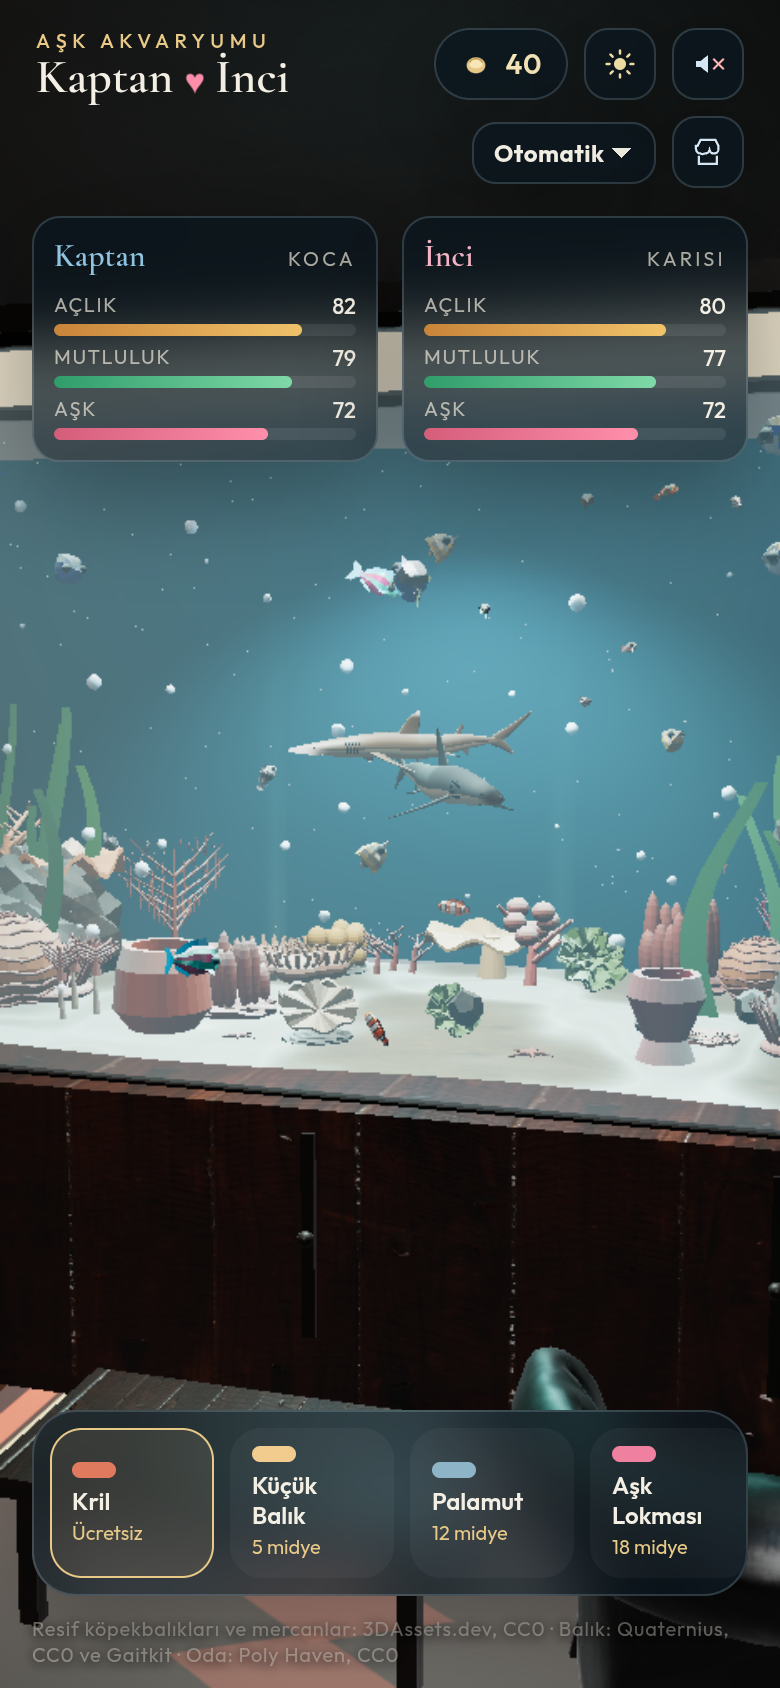
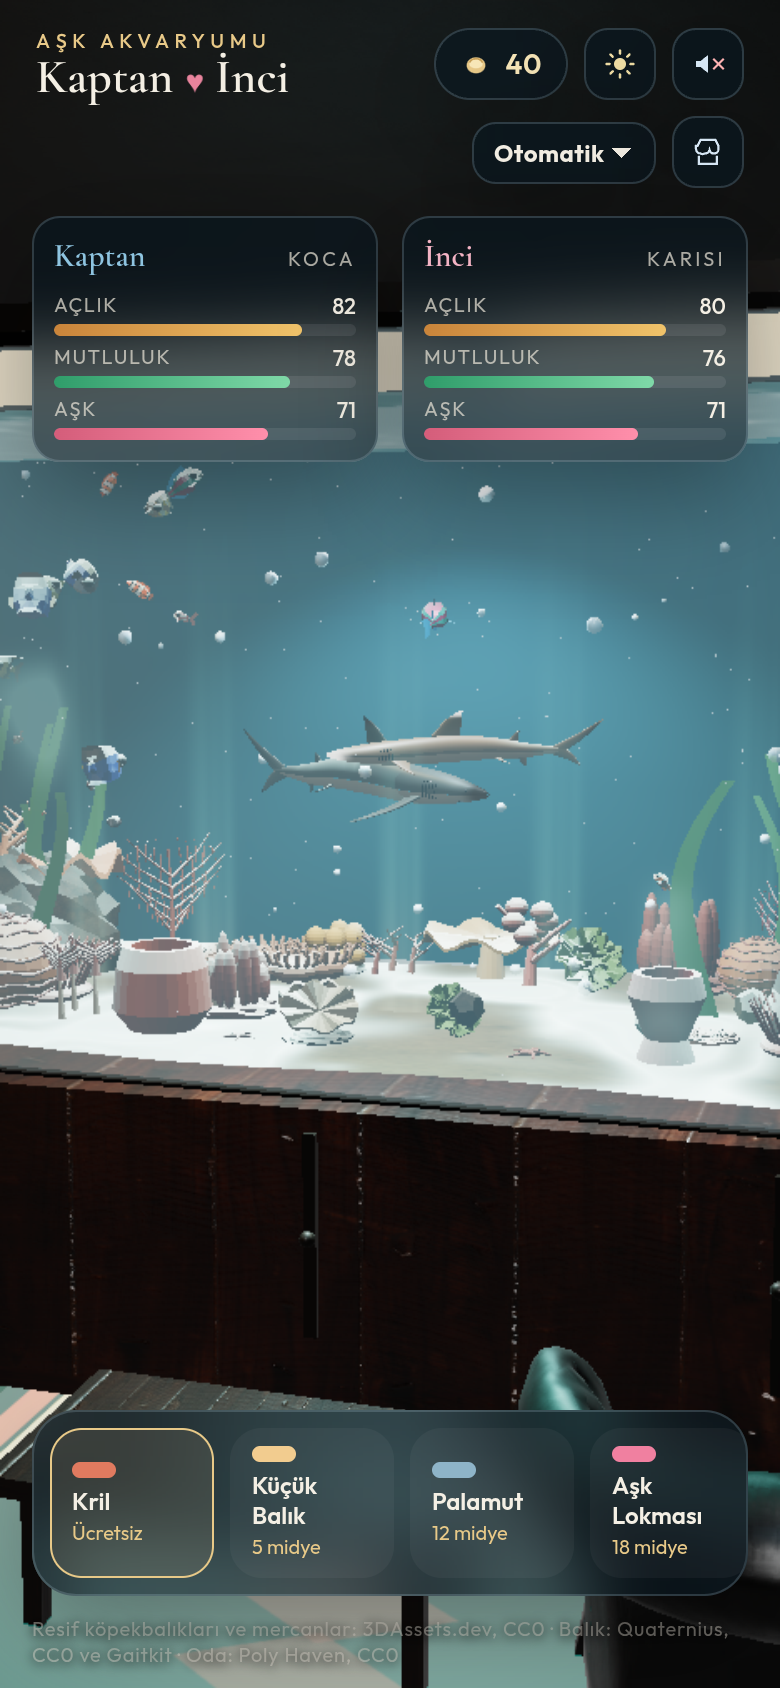
Su ve ışık: caustic, Orta’da tanrı ışınları, yüzey ışıltısı, yere yayılan ışıma
Kustik kontrastı ve emilim güçlendirildi. God ray düzlemleri Orta yazılım
yolunda da görünür. Önden bakışta su ışıltısı ve dolap önünde teal yer
ışıklaması eklendi. Orta/llvmpipe görüntüleri temiz.

diff --git a/js/world.js b/js/world.js
@@ -50,7 +50,7 @@ const PRESETS = {
   },
   medium: {
     bloom: false, shadows: false, shadowSize: 512, bubbles: 50, fish: 22, kelp: 8,
-    snow: 220, godrays: 4, transmission: false, gtao: false, dof: false, smaa: false,
+    snow: 220, godrays: 7, transmission: false, gtao: false, dof: false, smaa: false,
     fxaa: false, post: true, tex1k: true, simpleWater: true, simpleGlass: true,
     hdri: false, hdriPath: "./hdri/fireplace_1k.hdr", grade: false, exposure: 1.18, tone: "aces",
   },
@@ -235,7 +235,7 @@ export function applyUnderwater(material, uniforms, hooks = {}) {
     shader.uniforms.uFogDensity = uniforms.uFogDensity;
     if (uniforms.uCausticColor) shader.uniforms.uCausticColor = uniforms.uCausticColor;
     if (hooks.uniforms) Object.assign(shader.uniforms, hooks.uniforms);
-    if (!shader.uniforms.uCauGain) shader.uniforms.uCauGain = hooks.uniforms?.uCauGain || { value: 1.0 };
+    if (!shader.uniforms.uCauGain) shader.uniforms.uCauGain = hooks.uniforms?.uCauGain || { value: 1.45 };
     shader.vertexShader = shader.vertexShader
       .replace(
         "#include <common>",
@@ -265,7 +265,7 @@ export function applyUnderwater(material, uniforms, hooks = {}) {
         float c = caustic(vWorldPos.xz);
         float up = clamp(dot(normalize(normal), vec3(0.0, 1.0, 0.0)), 0.0, 1.0);
         vec3 cauCol = vec3(0.55, 0.95, 0.92);
-        outgoingLight += cauCol * (0.28 + 1.15 * c) * up * mix(1.0, 0.28, uNight) * (1.0 - absorb * 0.35) * uCauGain;
+        outgoingLight += cauCol * (0.12 + 1.85 * c) * up * mix(1.0, 0.28, uNight) * (1.0 - absorb * 0.32) * uCauGain;
         ${hooks.fragmentExtra || ""}
         }
         #include <opaque_fragment>`
@@ -354,8 +354,8 @@ export async function createWorld(canvas, quality, manager) {
   const uniforms = {
     uTime: { value: 0 },
     uNight: { value: 0 },
-    uWaterColor: { value: new THREE.Color(0x0a4e60) },
-    uFogDensity: { value: 0.14 },
+    uWaterColor: { value: new THREE.Color(0x0a4a5c) },
+    uFogDensity: { value: 0.16 },
     uCausticColor: { value: new THREE.Color(0x5ef0d8) },
     uWaterLevel: { value: TANK.water },
   };
@@ -426,6 +426,10 @@ export async function createWorld(canvas, quality, manager) {
 
   const waterSurface = quality.simpleWater ? makeSimpleWater() : makeWaterSurface();
   root.add(waterSurface);
+  const frontShimmer = makeFrontShimmer();
+  root.add(frontShimmer);
+  const floorGlow = makeFloorSpillGlow();
+  root.add(floorGlow);
 
   const glass = makeGlass(quality);
   root.add(glass);
@@ -487,7 +491,7 @@ export async function createWorld(canvas, quality, manager) {
 
   return {
     scene, camera, renderer, composer, controls, labels,
-    root, interior, decorations, waterSurface, rays, lights,
+    root, interior, decorations, waterSurface, frontShimmer, rays, lights,
     uniforms, quality, room,
     lastInteract: () => lastInteract,
   };
@@ -986,16 +990,57 @@ function makeSand(tex, quality) {
 
 
 function makeSimpleWater() {
-  const mat = new THREE.MeshStandardMaterial({
-    color: 0x1a6a78,
-    roughness: 0.15,
-    metalness: 0.05,
+  return makeShimmerSurface(true);
+}
+
+function makeShimmerSurface(simple) {
+  const mat = new THREE.ShaderMaterial({
     transparent: true,
-    opacity: 0.28,
-    envMapIntensity: 0.5,
     depthWrite: false,
+    side: THREE.DoubleSide,
+    uniforms: { uTime: { value: 0 }, uNight: { value: 0 } },
+    vertexShader: /* glsl */ `
+      varying vec2 vUv; varying vec3 vW; varying vec3 vView;
+      uniform float uTime;
+      void main() {
+        vUv = uv;
+        vec3 p = position;
+        p.z += sin(p.x * 3.2 + uTime * 1.05) * 0.007 + cos(p.y * 3.8 + uTime * 0.8) * 0.005;
+        vec4 wp = modelMatrix * vec4(p, 1.0);
+        vW = wp.xyz;
+        vec4 mv = modelViewMatrix * vec4(p, 1.0);
+        vView = mv.xyz;
+        gl_Position = projectionMatrix * mv;
+      }`,
+    fragmentShader: /* glsl */ `
+      varying vec2 vUv; varying vec3 vW; varying vec3 vView;
+      uniform float uTime, uNight;
+      float hash(vec2 p){ return fract(sin(dot(p, vec2(127.1,311.7))) * 43758.5453); }
+      float noise(vec2 p){
+        vec2 i=floor(p), f=fract(p); f=f*f*(3.0-2.0*f);
+        return mix(mix(hash(i),hash(i+vec2(1,0)),f.x), mix(hash(i+vec2(0,1)),hash(i+vec2(1,1)),f.x), f.y);
+      }
+      void main() {
+        vec3 N = normalize(vec3(
+          sin(vW.x * 6.0 + uTime * 1.2) * 0.15,
+          1.0,
+          cos(vW.z * 6.5 + uTime * 0.9) * 0.15
+        ));
+        vec3 V = normalize(-vView);
+        float fres = pow(1.0 - clamp(dot(N, vec3(0.0, 1.0, 0.0) /* view-ish */), 0.0, 1.0), 2.2);
+        float glance = pow(1.0 - abs(V.z), 1.6);
+        float spark = noise(vW.xz * 4.5 + vec2(uTime * 0.22, -uTime * 0.13));
+        spark *= noise(vW.xz * 8.0 + vec2(-uTime * 0.18, uTime * 0.1));
+        spark = pow(clamp(spark * 1.4, 0.0, 1.0), 3.0);
+        vec3 teal = vec3(0.18, 0.55, 0.58);
+        vec3 hi = vec3(0.75, 0.95, 0.92);
+        vec3 col = mix(teal, hi, spark * 0.7 + fres * 0.35 + glance * 0.25);
+        float a = mix(0.22, 0.12, uNight) + spark * 0.28 + fres * 0.2 + glance * 0.15;
+        gl_FragColor = vec4(col, clamp(a, 0.0, 0.7));
+      }`,
   });
-  const mesh = new THREE.Mesh(new THREE.PlaneGeometry(TANK.w - 0.08, TANK.d - 0.08), mat);
+  const segs = simple ? 12 : 48;
+  const mesh = new THREE.Mesh(new THREE.PlaneGeometry(TANK.w - 0.08, TANK.d - 0.08, segs, Math.max(6, (segs / 2) | 0)), mat);
   mesh.rotation.x = -Math.PI / 2;
   mesh.position.y = TANK.water - 0.01;
   mesh.renderOrder = 2;
@@ -1053,6 +1098,65 @@ function makeWaterSurface() {
   mesh.rotation.x = -Math.PI / 2;
   mesh.position.y = TANK.water - 0.01;
   mesh.renderOrder = 2;
+  return mesh;
+}
+
+
+function makeFrontShimmer() {
+  const mat = new THREE.ShaderMaterial({
+    transparent: true,
+    depthWrite: false,
+    blending: THREE.AdditiveBlending,
+    side: THREE.DoubleSide,
+    uniforms: { uTime: { value: 0 }, uNight: { value: 0 } },
+    vertexShader: /* glsl */ `
+      varying vec2 vUv; varying vec3 vW;
+      void main() {
+        vUv = uv;
+        vec4 wp = modelMatrix * vec4(position, 1.0);
+        vW = wp.xyz;
+        gl_Position = projectionMatrix * viewMatrix * wp;
+      }`,
+    fragmentShader: /* glsl */ `
+      varying vec2 vUv; varying vec3 vW;
+      uniform float uTime, uNight;
+      float hash(vec2 p){ return fract(sin(dot(p, vec2(127.1,311.7))) * 43758.5453); }
+      float noise(vec2 p){
+        vec2 i=floor(p), f=fract(p); f=f*f*(3.0-2.0*f);
+        return mix(mix(hash(i),hash(i+vec2(1,0)),f.x), mix(hash(i+vec2(0,1)),hash(i+vec2(1,1)),f.x), f.y);
+      }
+      void main() {
+        float c = noise(vec2(vW.x * 2.4, vW.y * 1.8) + vec2(uTime * 0.2, 0.0));
+        c *= noise(vec2(vW.x * 4.1 + uTime * -0.14, vW.y * 3.2));
+        float spark = pow(clamp(c * 1.5, 0.0, 1.0), 3.2);
+        float fade = smoothstep(0.0, 0.1, vUv.y) * smoothstep(1.0, 0.82, vUv.y) * 0.55 + 0.45;
+        float a = spark * mix(0.32, 0.12, uNight) * fade;
+        gl_FragColor = vec4(vec3(0.45, 0.95, 0.88) * a, a);
+      }`,
+  });
+  const mesh = new THREE.Mesh(
+    new THREE.PlaneGeometry(TANK.w - 0.12, TANK.water - TANK.sand - 0.04),
+    mat
+  );
+  mesh.position.set(0, (TANK.water + TANK.sand) / 2, TANK.d / 2 - 0.07);
+  mesh.renderOrder = 2;
+  mesh.userData.shimmer = true;
+  return mesh;
+}
+
+function makeFloorSpillGlow() {
+  const mat = new THREE.MeshBasicMaterial({
+    color: 0x4ee0d0,
+    transparent: true,
+    opacity: 0.2,
+    depthWrite: false,
+    blending: THREE.AdditiveBlending,
+    side: THREE.DoubleSide,
+  });
+  const mesh = new THREE.Mesh(new THREE.PlaneGeometry(3.6, 2.4), mat);
+  mesh.rotation.x = -Math.PI / 2;
+  mesh.position.set(0.15, ROOM.floorY + 0.012, 1.65);
+  mesh.renderOrder = 1;
   return mesh;
 }
 
@@ -1190,7 +1294,7 @@ function makeLights(root, quality) {
   rect.lookAt(0, 0.4, 0);
   if (!quality.software) root.add(rect);
 
-  const spill = new THREE.SpotLight(0x5ee0d0, 14, 10.0, Math.PI / 2.8, 0.62, 1.0);
+  const spill = new THREE.SpotLight(0x5ee0d0, 22, 11.0, Math.PI / 2.4, 0.7, 1.0);
   spill.position.set(0, 1.35, 0.55);
   spill.target.position.set(0.3, 0.15, 3.2);
   spill.castShadow = false;
@@ -1239,7 +1343,7 @@ function makeGodRays(n) {
         float bands = 0.55 + 0.45 * noise(vec2(vUv.x * 18.0, uTime * 0.15));
         float flicker = 0.75 + 0.25 * sin(uTime * 1.3 + vUv.x * 20.0);
         float fall = pow(1.0 - vUv.y, 1.15);
-        float a = shaft * bands * flicker * fall * mix(0.42, 0.18, uNight);
+        float a = shaft * bands * flicker * fall * mix(0.85, 0.32, uNight);
         vec3 teal = vec3(0.28, 0.92, 0.82);
         vec3 warm = vec3(1.0, 0.78, 0.42);
         vec3 col = mix(teal, warm, smoothstep(0.7, 1.0, 1.0 - vUv.y) * 0.55);
@@ -1248,10 +1352,10 @@ function makeGodRays(n) {
     `,
   });
   for (let i = 0; i < n; i++) {
-    const mesh = new THREE.Mesh(new THREE.PlaneGeometry(0.38, TANK.water - 0.05), mat);
-    const x = -1.7 + (i / Math.max(1, n - 1)) * 3.4;
-    mesh.position.set(x, TANK.water / 2, (i % 2 === 0 ? 0.18 : -0.22));
-    mesh.rotation.y = (i % 2 === 0 ? 0.15 : -0.12);
+    const mesh = new THREE.Mesh(new THREE.PlaneGeometry(0.62, TANK.water - 0.04), mat);
+    const x = -1.75 + (i / Math.max(1, n - 1)) * 3.5;
+    mesh.position.set(x, TANK.water / 2 + 0.02, (i % 2 === 0 ? 0.32 : 0.08));
+    mesh.rotation.y = (i % 2 === 0 ? 0.06 : -0.05);
     mesh.renderOrder = 1;
     group.add(mesh);
   }
@@ -1270,7 +1374,7 @@ export function setDayNight(world, nightT) {
   if (L.hood3) L.hood3.intensity = THREE.MathUtils.lerp(8, 4, nightT);
   L.fill.intensity = THREE.MathUtils.lerp(2.6, 1.2, nightT);
   if (L.rect) L.rect.intensity = THREE.MathUtils.lerp(q.software ? 0 : 5, 2, nightT);
-  if (L.spill) L.spill.intensity = THREE.MathUtils.lerp(14, 6, nightT);
+  if (L.spill) L.spill.intensity = THREE.MathUtils.lerp(22, 8, nightT);
   if (L.roomFill) L.roomFill.intensity = THREE.MathUtils.lerp(1.6, 0.7, nightT);
   world.scene.background.copy(
     new THREE.Color(0x0a0d10).lerp(new THREE.Color(0x05060a), nightT)
@@ -1281,6 +1385,9 @@ export function setDayNight(world, nightT) {
   world.renderer.toneMappingExposure = THREE.MathUtils.lerp(dayExp, dayExp * 0.82, nightT);
   if (world.waterSurface?.material?.uniforms?.uNight) {
     world.waterSurface.material.uniforms.uNight.value = nightT;
+  }
+  if (world.frontShimmer?.material?.uniforms?.uNight) {
+    world.frontShimmer.material.uniforms.uNight.value = nightT;
   }
   if (world.rays?.userData?.mat) {
     world.rays.userData.mat.uniforms.uNight.value = nightT;
@@ -1302,6 +1409,9 @@ export function updateWorldTime(world, t, nightT) {
   world.uniforms.uTime.value = t;
   if (world.waterSurface?.material?.uniforms?.uTime) {
     world.waterSurface.material.uniforms.uTime.value = t;
+  }
+  if (world.frontShimmer?.material?.uniforms?.uTime) {
+    world.frontShimmer.material.uniforms.uTime.value = t;
   }
   if (world.rays?.userData?.mat) {
     world.rays.userData.mat.uniforms.uTime.value = t;

diff --git a/index.html b/index.html
@@ -138,6 +138,6 @@
       </form>
     </div>
   </div>
-  <script type="module" src="js/main.js?v=20261121s"></script>
+  <script type="module" src="js/main.js?v=20261121t"></script>
 </body>
 </html>
